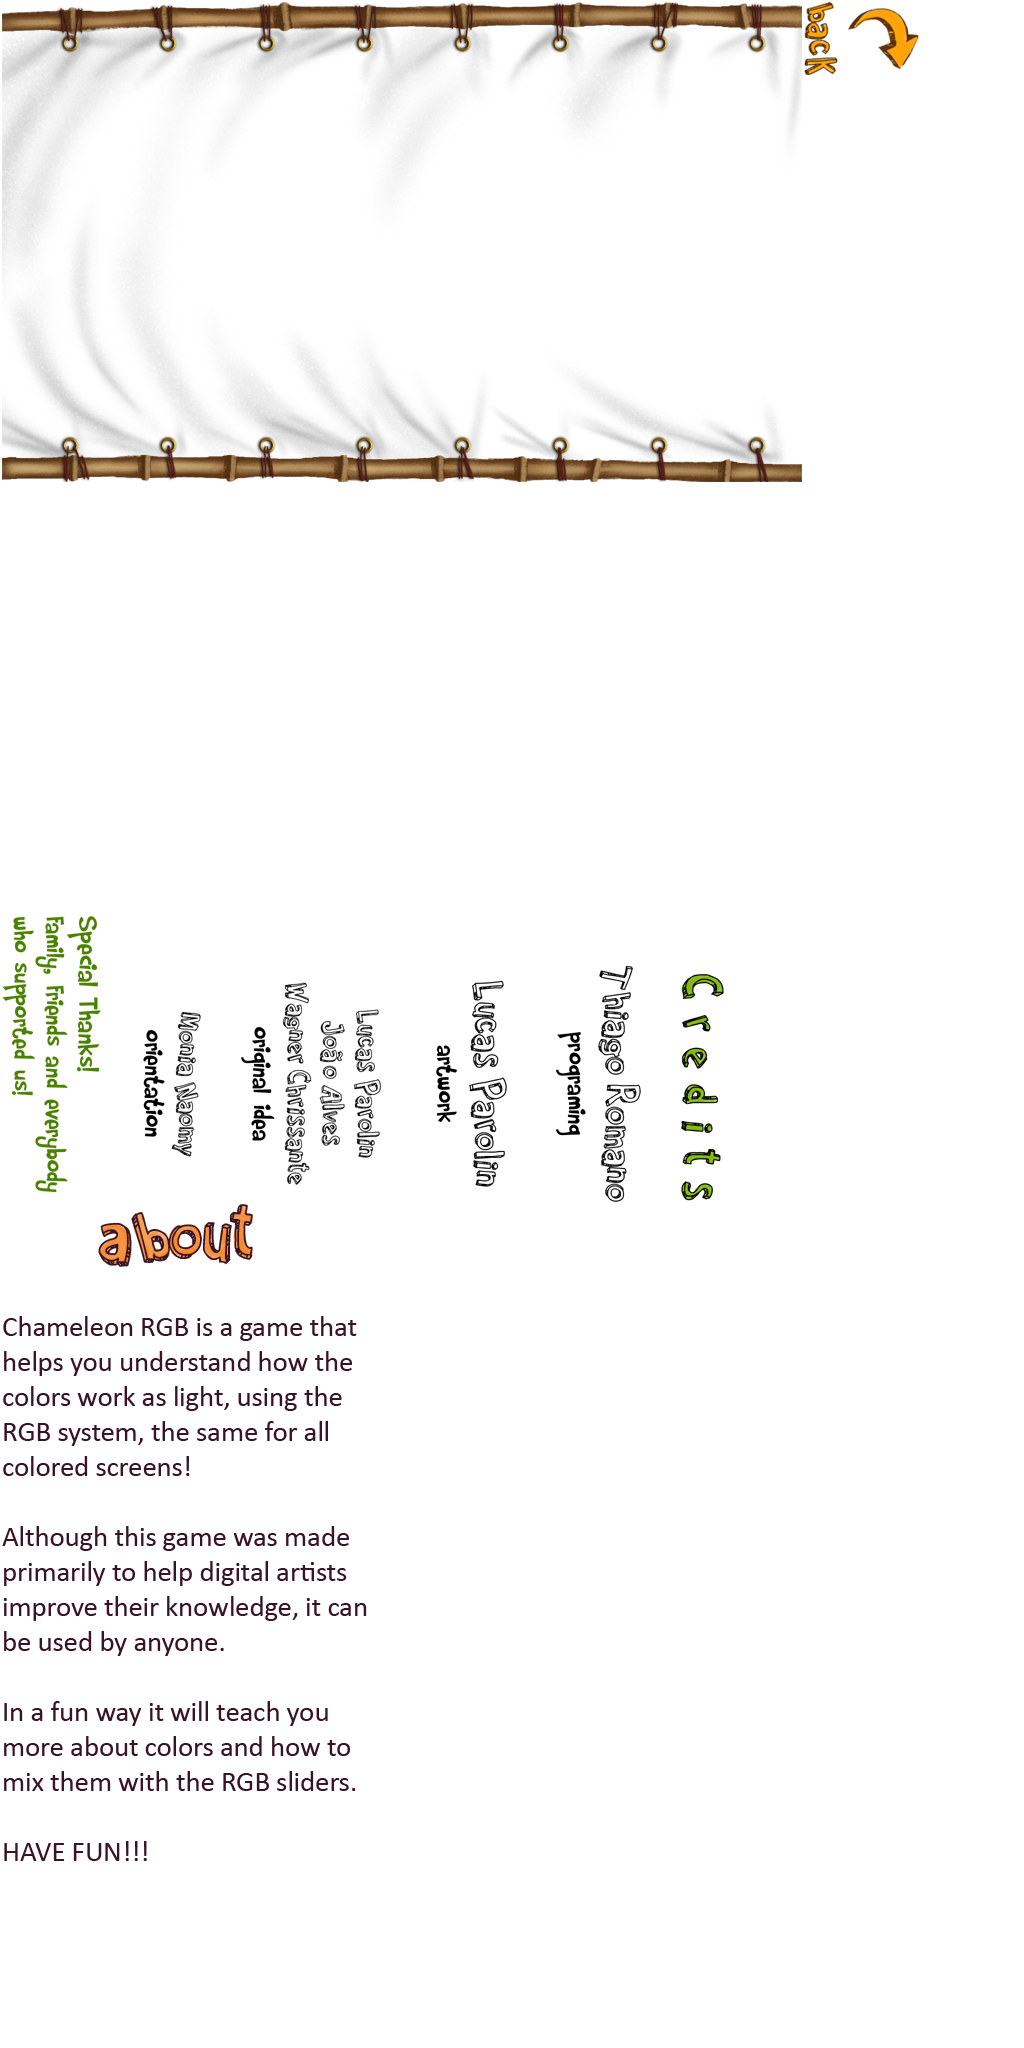
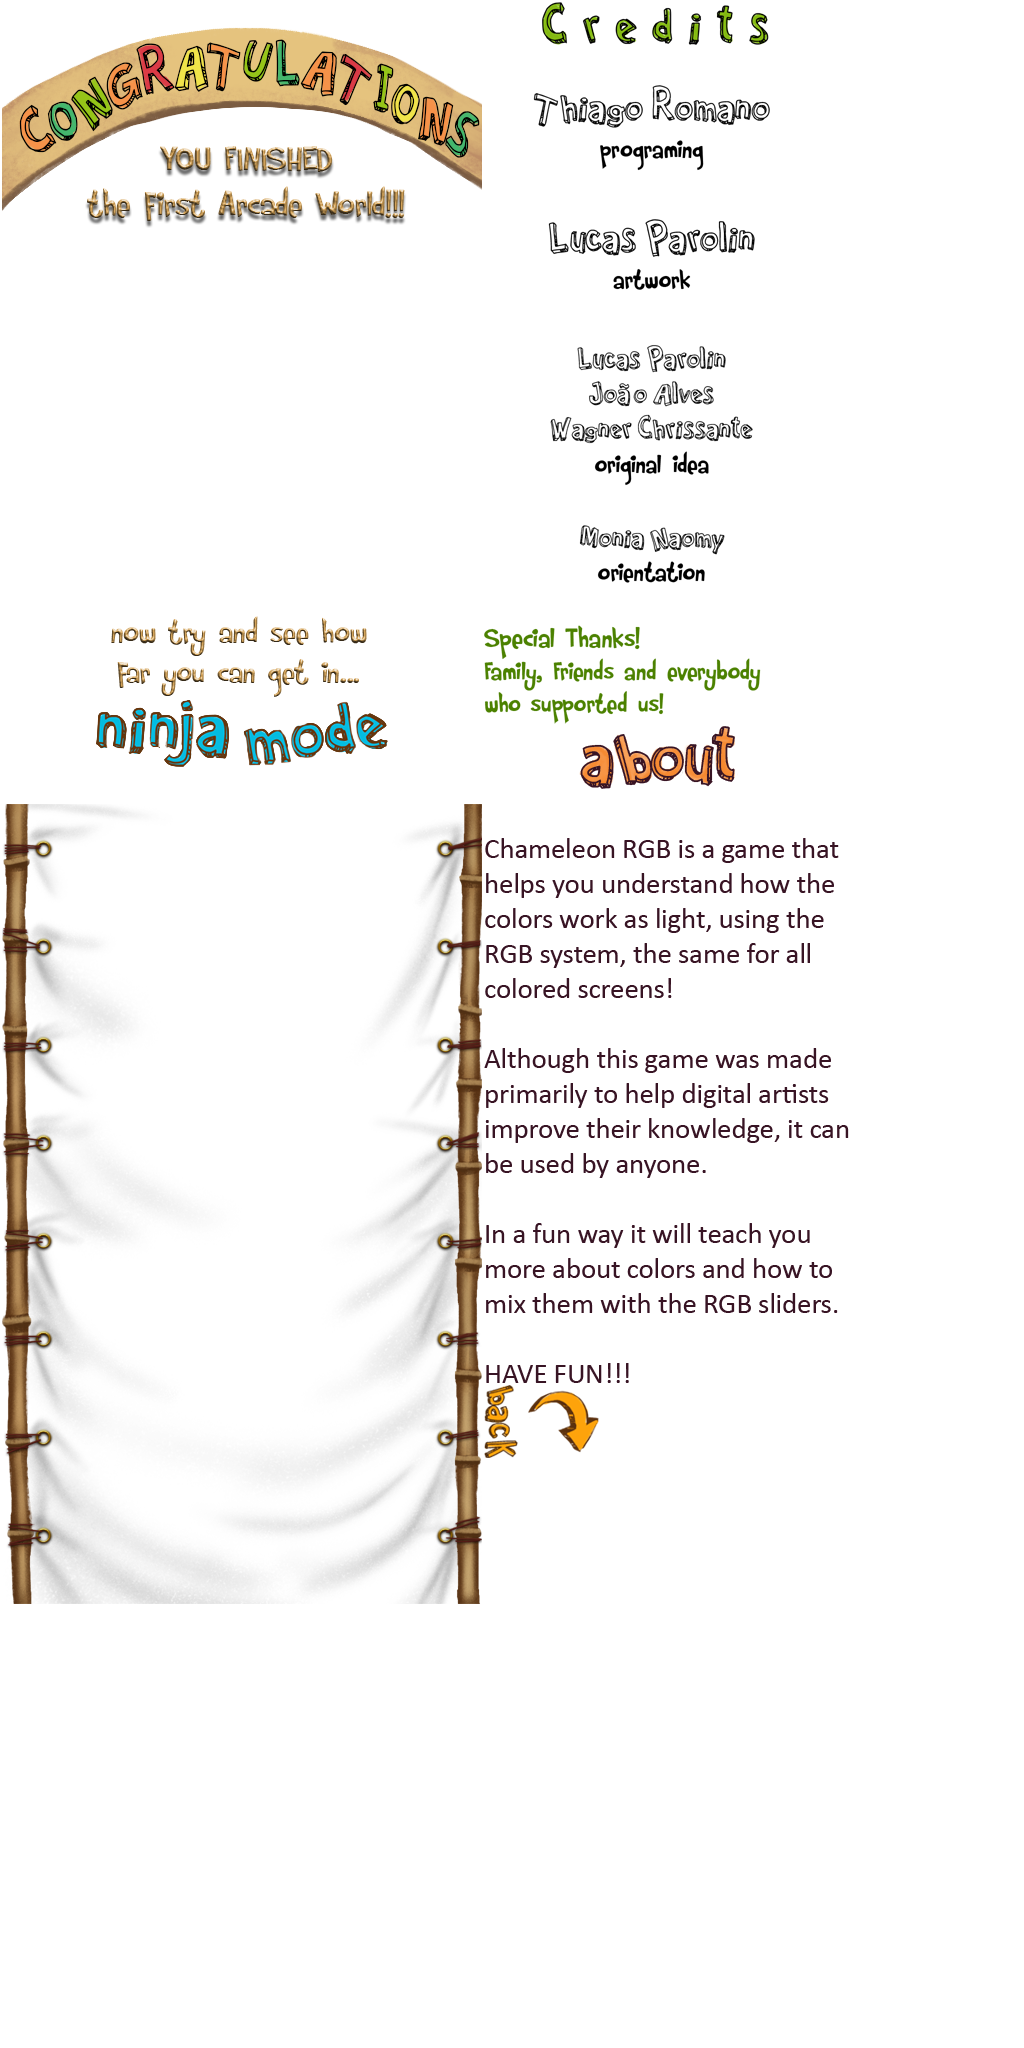
Adicionado congrats e recompactado

diff --git a/src/br/edu/ifpr/ThiagoRomano/Camaleao/ArcadeCongratsScene.java b/src/br/edu/ifpr/ThiagoRomano/Camaleao/ArcadeCongratsScene.java
@@ -1,0 +1,57 @@
+package br.edu.ifpr.ThiagoRomano.Camaleao;
+
+import org.andengine.entity.scene.menu.MenuScene;
+import org.andengine.entity.scene.menu.MenuScene.IOnMenuItemClickListener;
+import org.andengine.entity.scene.menu.item.IMenuItem;
+import org.andengine.entity.scene.menu.item.SpriteMenuItem;
+import org.andengine.entity.sprite.Sprite;
+
+public class ArcadeCongratsScene extends MenuScene implements IOnMenuItemClickListener {
+
+	Sprite mBackground;
+	Sprite mEscuro;
+	Sprite mTexto;
+
+	CamaleaotestActivity activity;
+
+	IMenuItem mBack;
+
+	public ArcadeCongratsScene() {
+		activity = CamaleaotestActivity.getSharedInstance();
+		this.mCamera = activity.mCamera;
+		mBackground = new Sprite(0, 0,
+				activity.mSpritesheetTexturePackTextureRegionLibrary
+						.get(posicoes.FUNDO_ID),
+				activity.getVertexBufferObjectManager());
+		mEscuro = new Sprite(0, 0,
+				activity.mSpritesheetTexturePackTextureRegionLibrary
+				.get(posicoes.BLACK_BEHIND_ID),
+				activity.getVertexBufferObjectManager());
+
+		mTexto = new Sprite(0, 0,
+				activity.mSpritesheetTexturePackTextureRegionLibrary2
+						.get(posicoes2.CONGRATS_TEXTO_ID),
+				activity.getVertexBufferObjectManager());
+
+		mBack = new SpriteMenuItem(0,
+				activity.mSpritesheetTexturePackTextureRegionLibrary2
+						.get(posicoes2.BACK_ID),
+				activity.getVertexBufferObjectManager());
+		mBack.setPosition(375, 678);
+
+		this.attachChild(mBackground);
+		this.attachChild(mEscuro);
+		this.attachChild(mTexto);
+		this.addMenuItem(mBack);
+
+		setBackgroundEnabled(false);
+		setOnMenuItemClickListener(this);
+	}
+
+	@Override
+	public boolean onMenuItemClicked(MenuScene pMenuScene, IMenuItem pMenuItem,
+			float pMenuItemLocalX, float pMenuItemLocalY) {
+		activity.setCurrentScene(new MainMenuScene());
+		return true;
+	}
+}

diff --git a/src/br/edu/ifpr/ThiagoRomano/Camaleao/ArcadeModeScene.java b/src/br/edu/ifpr/ThiagoRomano/Camaleao/ArcadeModeScene.java
@@ -185,7 +185,7 @@ public class ArcadeModeScene extends GameScene {
 		mPauseButton = new Sprite(396, 14,
 				activity.mSpritesheetTexturePackTextureRegionLibrary
 						.get(posicoes.PAUSE_ID),
-				activity.getVertexBufferObjectManager()){
+				activity.getVertexBufferObjectManager()) {
 			@Override
 			public boolean onAreaTouched(final TouchEvent pSceneTouchEvent,
 					final float pTouchAreaLocalX, final float pTouchAreaLocalY) {
@@ -241,7 +241,7 @@ public class ArcadeModeScene extends GameScene {
 
 		this.attachChild(mSliderBlue);
 		registerTouchArea(mSliderBlue);
-		
+
 		this.attachChild(mPauseButton);
 		registerTouchArea(mPauseButton);
 		// this.attachChild(mTextRemainingTime);
@@ -441,10 +441,7 @@ public class ArcadeModeScene extends GameScene {
 			mPlacaColor = Color.rgb(mCores[mActualColor * 3],
 					mCores[mActualColor * 3 + 1], mCores[mActualColor * 3 + 2]);
 		else {
-			if (activity.mLevel <= mThisLevel) {
-				activity.mLevel = mThisLevel + 1;
-			}
-			activity.setCurrentScene(new ArcadeLevelSelect());
+			endLevel();
 		}
 
 		setPlacaColor(mPlacaColor);
@@ -457,6 +454,13 @@ public class ArcadeModeScene extends GameScene {
 
 		// animacao entrando
 
+	}
+
+	public void endLevel() {
+		if (activity.mLevel <= mThisLevel) {
+			activity.mLevel = mThisLevel + 1;
+		}
+		activity.setCurrentScene(new ArcadeLevelSelect());
 	}
 
 	private void updateScore() {

diff --git a/src/br/edu/ifpr/ThiagoRomano/Camaleao/posicoes2.java b/src/br/edu/ifpr/ThiagoRomano/Camaleao/posicoes2.java
@@ -1,7 +1,7 @@
 // Definitions for sprite sheet positions2
 // Created with www.texturepacker.com
 
-// $TexturePacker:SmartUpdate:7f2423e0bd3c9a9113cfee3416a45167$
+// $TexturePacker:SmartUpdate:f9f733dbe6f6adbbc0d981296da47684$
 
 package br.edu.ifpr.ThiagoRomano.Camaleao;
 
@@ -10,6 +10,7 @@ public interface posicoes2
 	public static final int ABOUT_TEXT_ID = 0;
 	public static final int ADD_ID = 1;
 	public static final int BACK_ID = 2;
-	public static final int CREDITS_ID = 3;
-	public static final int NYLON_ID = 4;
+	public static final int CONGRATS_TEXTO_ID = 3;
+	public static final int CREDITS_ID = 4;
+	public static final int NYLON_ID = 5;
 }

diff --git a/src/br/edu/ifpr/ThiagoRomano/Camaleao/ArcadeLevelSelect.java b/src/br/edu/ifpr/ThiagoRomano/Camaleao/ArcadeLevelSelect.java
@@ -325,6 +325,11 @@ public class ArcadeLevelSelect extends MenuScene implements
 										.getVertexBufferObjectManager());
 						attachChild(diferenciadorDeFases);
 					}
+					@Override
+					public void endLevel() {
+						// TODO Auto-generated method stub
+						activity.setCurrentScene(new ArcadeCongratsScene());
+					}
 				});
 				return true;
 			case MENU_BACK:
